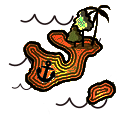
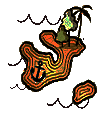
create mediaqueries to desktop

diff --git a/assets/css/map.css b/assets/css/map.css
@@ -16,33 +16,12 @@
   top: 0;
   right: 0;
   text-shadow: 1px 1px 2px black;
-  font-size: 3em;
+  font-size: 40px;
   display: none;
 }
 
 .tile:hover .coords {
   display: block;
-}
-
-@media screen and (max-width: 1800px) {
-  .tile {
-    height: 100px;
-    width: 100px;
-  }
-}
-
-@media screen and (max-width: 1475px) {
-  .tile {
-    height: 80px;
-    width: 80px;
-  }
-}
-
-@media screen and (max-width: 1200px) {
-  .tile {
-    height: 60px;
-    width: 60px;
-  }
 }
 
 .tile-name {
@@ -52,15 +31,24 @@
 }
 
 .sea {
-  background-image: url("../images/sea.png");
+  background-color: #cb9b51;
+  background: url("../images/sea-sm.png") no-repeat;
+  -webkit-background-size: cover;
+  background-size: cover;
 }
 
 .port {
-  background-image: url("../images/port.png");
+  background-color: #cb9b51;
+  background: url("../images/port-sm.png") no-repeat;
+  -webkit-background-size: cover;
+  background-size: cover;
 }
 
 .island {
-  background-image: url("../images/island.png");
+  background-color: #cb9b51;
+  background: url("../images/island-sm.png") no-repeat;
+  -webkit-background-size: cover;
+  background-size: cover;
 }
 
 @keyframes myBoat {
@@ -90,18 +78,19 @@
 
 .navigation-infos {
   display: flex;
-  flex-direction: column;
-  justify-content: space-around;
+  flex-direction: row;
 }
 
 .navigation,
 .infos {
   background-color: black;
   border: 1px solid white;
-  height: 300px;
+  width: 100%;
   display: flex;
   flex-direction: column;
   align-items: center;
+  margin-bottom: 10px;
+  padding: 10px 20px;
 }
 
 .navigation h2,
@@ -126,8 +115,8 @@
 
 .compass,
 .board {
-  width: 200px;
-  height: 200px;
+  width: 100%;
+  height: 100%;
   display: flex;
   flex-direction: column;
   justify-content: center;
@@ -138,12 +127,20 @@
 .compass {
   background-image: url("../images/compass.png");
   background-size: cover;
+  background-repeat: no-repeat;
+  background-position: center;
 }
 
+.compass .compass-btn {
+  width: 100%;
+  display: flex;
+  justify-content: center;
+}
 .compass .btn {
+  width: 50px;
+  height: 50px;
   color: white !important;
   background-color: black !important;
-  height: 50px;
   font-weight: bold;
   display: flex;
   justify-content: center;
@@ -160,12 +157,15 @@
 .compass .middle {
   width: 100%;
   display: flex;
-  justify-content: space-between;
+  justify-content: space-evenly;
 }
 
 .board {
   background-image: url("../images/infos.jpg");
   background-size: cover;
+  background-repeat: no-repeat;
+  background-position: center;
+  position: relative;
 }
 .board p {
   color: white;
@@ -174,27 +174,33 @@
 }
 
 .overlay-image {
-  background-color: black;
+  display: flex;
+  flex-direction: column;
+  justify-content: center;
+  align-items: center;
 }
 
 .overlay-image img {
   width: 50px;
   height: 50px;
+  background-color: black;
 }
 
 .overlay-text {
   display: none;
-  padding: 5px 10px;
 }
 
 .overlay-image:hover .overlay-text {
   display: block;
   font-size: 10px;
   color: grey;
+  background-color: rgba(0, 0, 0, 0.5);
   text-align: center;
+  width: 100%;
   position: absolute;
   bottom: 0;
-  left: 50%;
-  transform: translate(-50%, -50%);
-  width: 90%;
+}
+
+#boat {
+  width: 30px;
 }

diff --git a/assets/css/mediaqueries.css b/assets/css/mediaqueries.css
@@ -1,8 +1,7 @@
 /* Medium devices (tablets, 768px and up) */
 @media screen and (min-width: 768px) {
-  .victory {
-    font-size: 18px;
-    height: 600px;
+  .coords {
+    font-size: 60px;
   }
 }
 
@@ -45,6 +44,30 @@
     font-size: 13px;
     padding: 5px;
   }
+  /* map */
+  .coords {
+    font-size: 80px;
+  }
+  .sea {
+    background: url("../images/sea.png");
+  }
+  .port {
+    background: url("../images/port.png");
+  }
+  .island {
+    background: url("../images/island.png");
+  }
+  .navigation-infos {
+    flex-direction: column;
+  }
+  .compass,
+  .board {
+    height: 200px;
+  }
+  #boat {
+    width: 80px;
+  }
+
   /* section victory */
   .victory {
     font-size: 20px;
